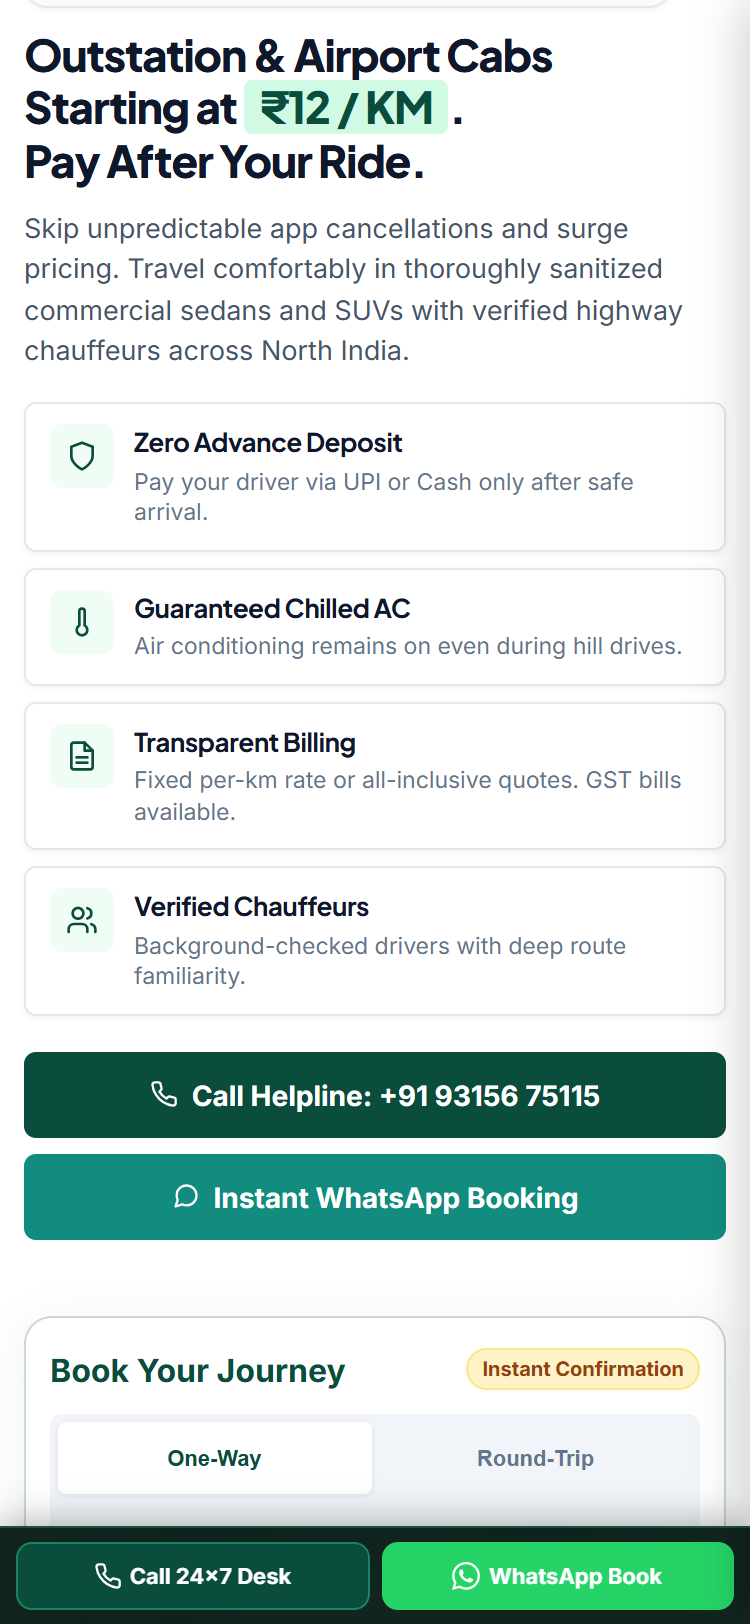
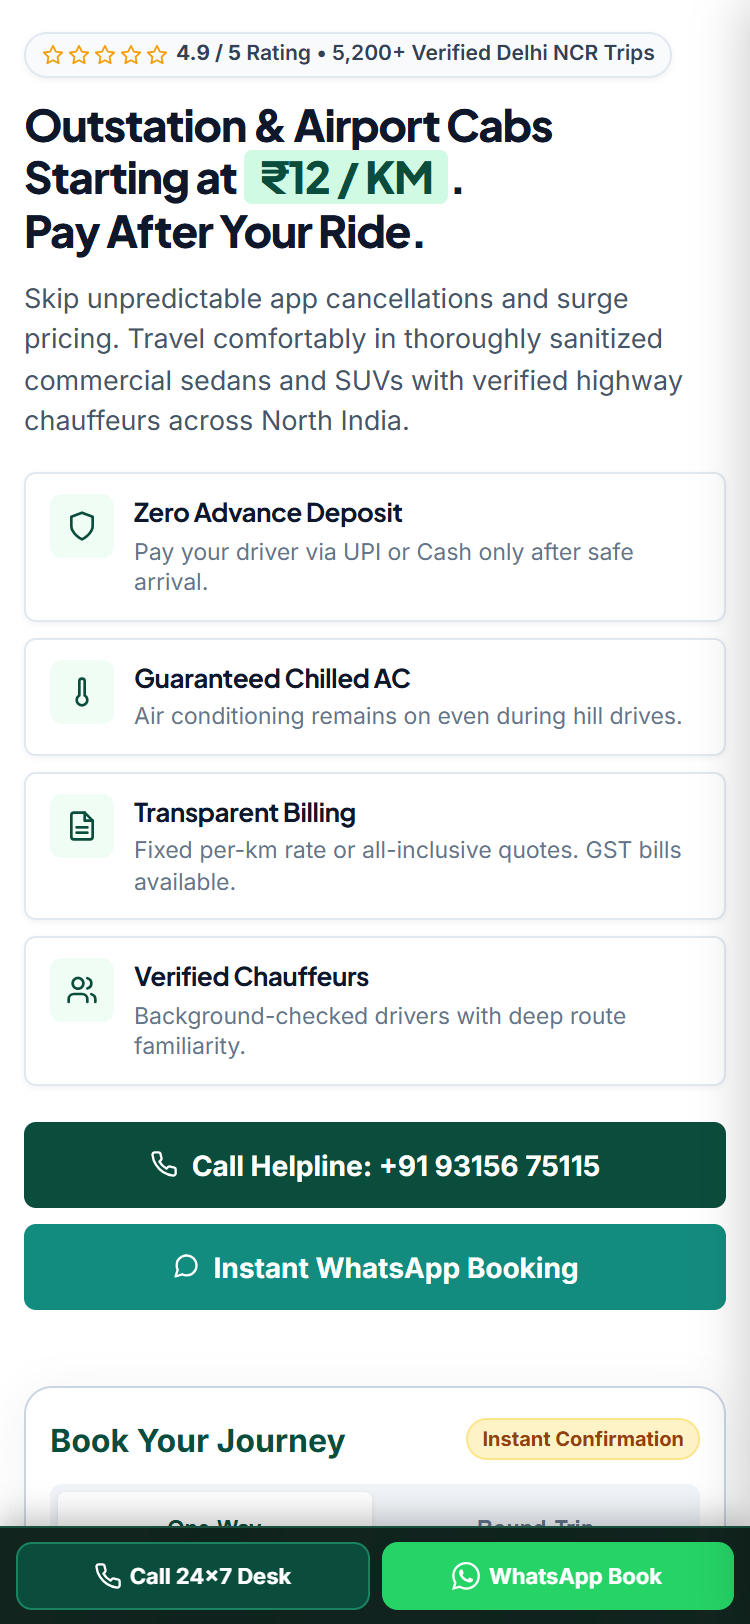
fix

diff --git a/index.html b/index.html
@@ -1391,6 +1391,10 @@
       grid-template-columns: 1.15fr 0.85fr;
       gap: clamp(24px, 3vw, 42px);
       align-items: flex-start;
+      width: 100%;
+      max-width: 100%;
+      min-width: 0;
+      box-sizing: border-box;
     }
 
     /* Left: Controls Card */
@@ -1400,6 +1404,10 @@
       border-radius: 16px;
       padding: clamp(20px, 2.5vw, 32px);
       box-shadow: 0 2px 10px rgba(0, 0, 0, 0.04);
+      min-width: 0;
+      max-width: 100%;
+      width: 100%;
+      box-sizing: border-box;
     }
 
     .calc-section-label {
@@ -1410,6 +1418,8 @@
       display: flex;
       align-items: center;
       justify-content: space-between;
+      flex-wrap: wrap;
+      gap: 4px 8px;
     }
 
     .calc-section-label span.hint {
@@ -1856,11 +1866,19 @@
     /* Calc Responsive */
     @media (max-width: 992px) {
       .calc-grid {
-        grid-template-columns: 1fr;
+        grid-template-columns: minmax(0, 1fr);
+        width: 100%;
+        max-width: 100%;
+        min-width: 0;
+        box-sizing: border-box;
       }
 
       .calc-receipt-card {
         position: static;
+        width: 100%;
+        max-width: 100%;
+        min-width: 0;
+        box-sizing: border-box;
       }
 
       .calc-route-row {
@@ -4935,21 +4953,60 @@
         font-size: 13.5px;
       }
 
+      .calc-grid {
+        grid-template-columns: 100%;
+        width: 100%;
+        max-width: 100%;
+        min-width: 0;
+        gap: 16px;
+      }
+
       .calc-card-controls {
         padding: 16px 14px;
         border-radius: 14px;
+        width: 100%;
+        max-width: 100%;
+        min-width: 0;
+        box-sizing: border-box;
+        overflow: hidden;
+      }
+
+      .calc-section-label {
+        font-size: 12.5px;
+        flex-wrap: wrap;
+        gap: 2px 6px;
+        align-items: baseline;
+        margin-bottom: 8px;
+      }
+
+      .calc-section-label span.hint {
+        font-size: 10.5px;
+        display: block;
       }
 
       .calc-trip-toggle {
+        grid-template-columns: repeat(2, minmax(0, 1fr));
         gap: 4px;
         padding: 3px;
         margin-bottom: 14px;
+        width: 100%;
+        max-width: 100%;
+        min-width: 0;
+        box-sizing: border-box;
       }
 
       .calc-trip-btn {
-        font-size: 12px;
-        padding: 8px 6px;
+        font-size: 11.5px;
+        padding: 8px 4px;
         min-height: 38px;
+        min-width: 0;
+        gap: 4px;
+      }
+
+      .calc-trip-btn span {
+        white-space: nowrap;
+        overflow: hidden;
+        text-overflow: ellipsis;
       }
 
       .preset-routes-wrap {
@@ -4961,6 +5018,10 @@
         padding-bottom: 6px;
         margin-bottom: 16px;
         scrollbar-width: none;
+        width: 100%;
+        max-width: 100%;
+        min-width: 0;
+        box-sizing: border-box;
       }
 
       .preset-routes-wrap::-webkit-scrollbar {
@@ -4971,36 +5032,88 @@
         flex-shrink: 0;
         font-size: 11.5px;
         padding: 5px 11px;
+        white-space: nowrap;
       }
 
       .calc-route-row {
         grid-template-columns: 1fr;
         gap: 10px;
         margin-bottom: 14px;
+        width: 100%;
+        max-width: 100%;
+        min-width: 0;
+        box-sizing: border-box;
+      }
+
+      .calc-input-box {
+        width: 100%;
+        max-width: 100%;
+        min-width: 0;
+        box-sizing: border-box;
+      }
+
+      .calc-input-wrap {
+        width: 100%;
+        max-width: 100%;
+        min-width: 0;
+        box-sizing: border-box;
       }
 
       .calc-input-wrap input {
         height: 40px;
         font-size: 13px;
+        width: 100%;
+        max-width: 100%;
+        min-width: 0;
+        box-sizing: border-box;
       }
 
       .calc-vehicle-grid {
         grid-template-columns: 1fr;
         gap: 8px;
         margin-bottom: 10px;
+        width: 100%;
+        max-width: 100%;
+        min-width: 0;
+        box-sizing: border-box;
       }
 
       .vehicle-select-card {
         padding: 10px 12px;
         min-height: 48px;
+        width: 100%;
+        max-width: 100%;
+        min-width: 0;
+        box-sizing: border-box;
+        gap: 8px;
+      }
+
+      .v-card-info {
+        min-width: 0;
+        flex: 1;
+        overflow: hidden;
       }
 
       .v-card-name {
-        font-size: 13px;
+        font-size: 12.5px;
+        white-space: nowrap;
+        overflow: hidden;
+        text-overflow: ellipsis;
+      }
+
+      .v-card-meta {
+        font-size: 10.5px;
+        white-space: nowrap;
+        overflow: hidden;
+        text-overflow: ellipsis;
+      }
+
+      .v-card-rate-box {
+        flex-shrink: 0;
       }
 
       .v-card-rate {
-        font-size: 15px;
+        font-size: 14px;
       }
 
       .calc-receipt-card {
@@ -5008,19 +5121,63 @@
         border-radius: 14px;
         margin-top: 14px;
         position: static;
+        width: 100%;
+        max-width: 100%;
+        min-width: 0;
+        box-sizing: border-box;
+        overflow: hidden;
+      }
+
+      .receipt-badges {
+        display: flex;
+        flex-wrap: wrap;
+        gap: 6px;
+      }
+
+      .receipt-badge {
+        font-size: 11px;
+        padding: 3px 8px;
       }
 
       .receipt-route-title {
-        font-size: 15.5px;
+        font-size: 15px;
+        line-height: 1.35;
+        word-break: break-word;
       }
 
-      .receipt-total-fare {
+      .receipt-breakdown {
+        width: 100%;
+        box-sizing: border-box;
+      }
+
+      .breakdown-row {
+        font-size: 12px;
+        gap: 8px;
+      }
+
+      .breakdown-row span:first-child {
+        min-width: 0;
+        overflow-wrap: break-word;
+      }
+
+      .total-price {
         font-size: 24px;
       }
 
-      .calc-whatsapp-btn {
-        height: 46px;
-        font-size: 13.5px;
+      .calc-actions {
+        width: 100%;
+        box-sizing: border-box;
+      }
+
+      .calc-btn-wa,
+      .calc-btn-call {
+        width: 100%;
+        max-width: 100%;
+        box-sizing: border-box;
+        justify-content: center;
+        text-align: center;
+        padding: 11px 10px;
+        font-size: 12.5px;
       }
 
       /* Tour Routes Section */
@@ -5050,6 +5207,10 @@
         padding-bottom: 6px;
         margin-bottom: 20px;
         scrollbar-width: none;
+        width: 100%;
+        max-width: 100%;
+        min-width: 0;
+        box-sizing: border-box;
       }
 
       .routes-filter-wrap::-webkit-scrollbar {
